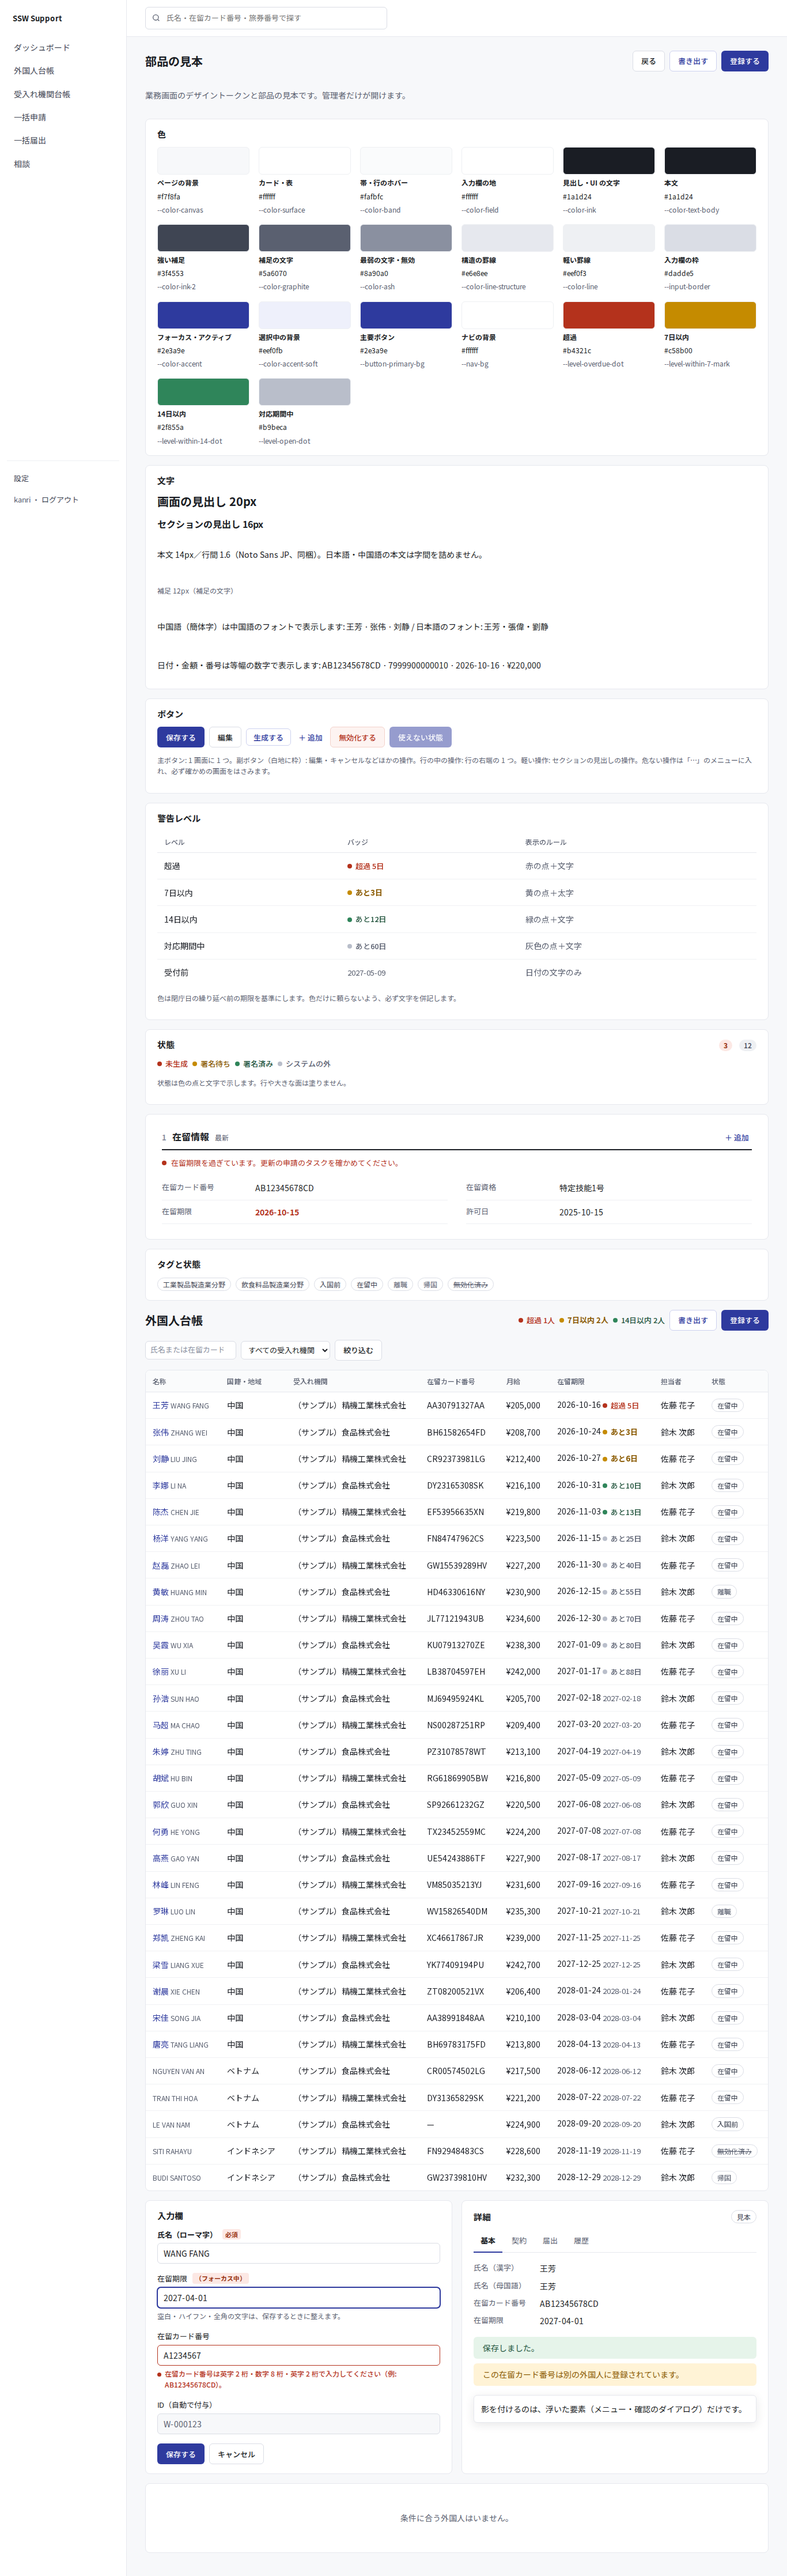
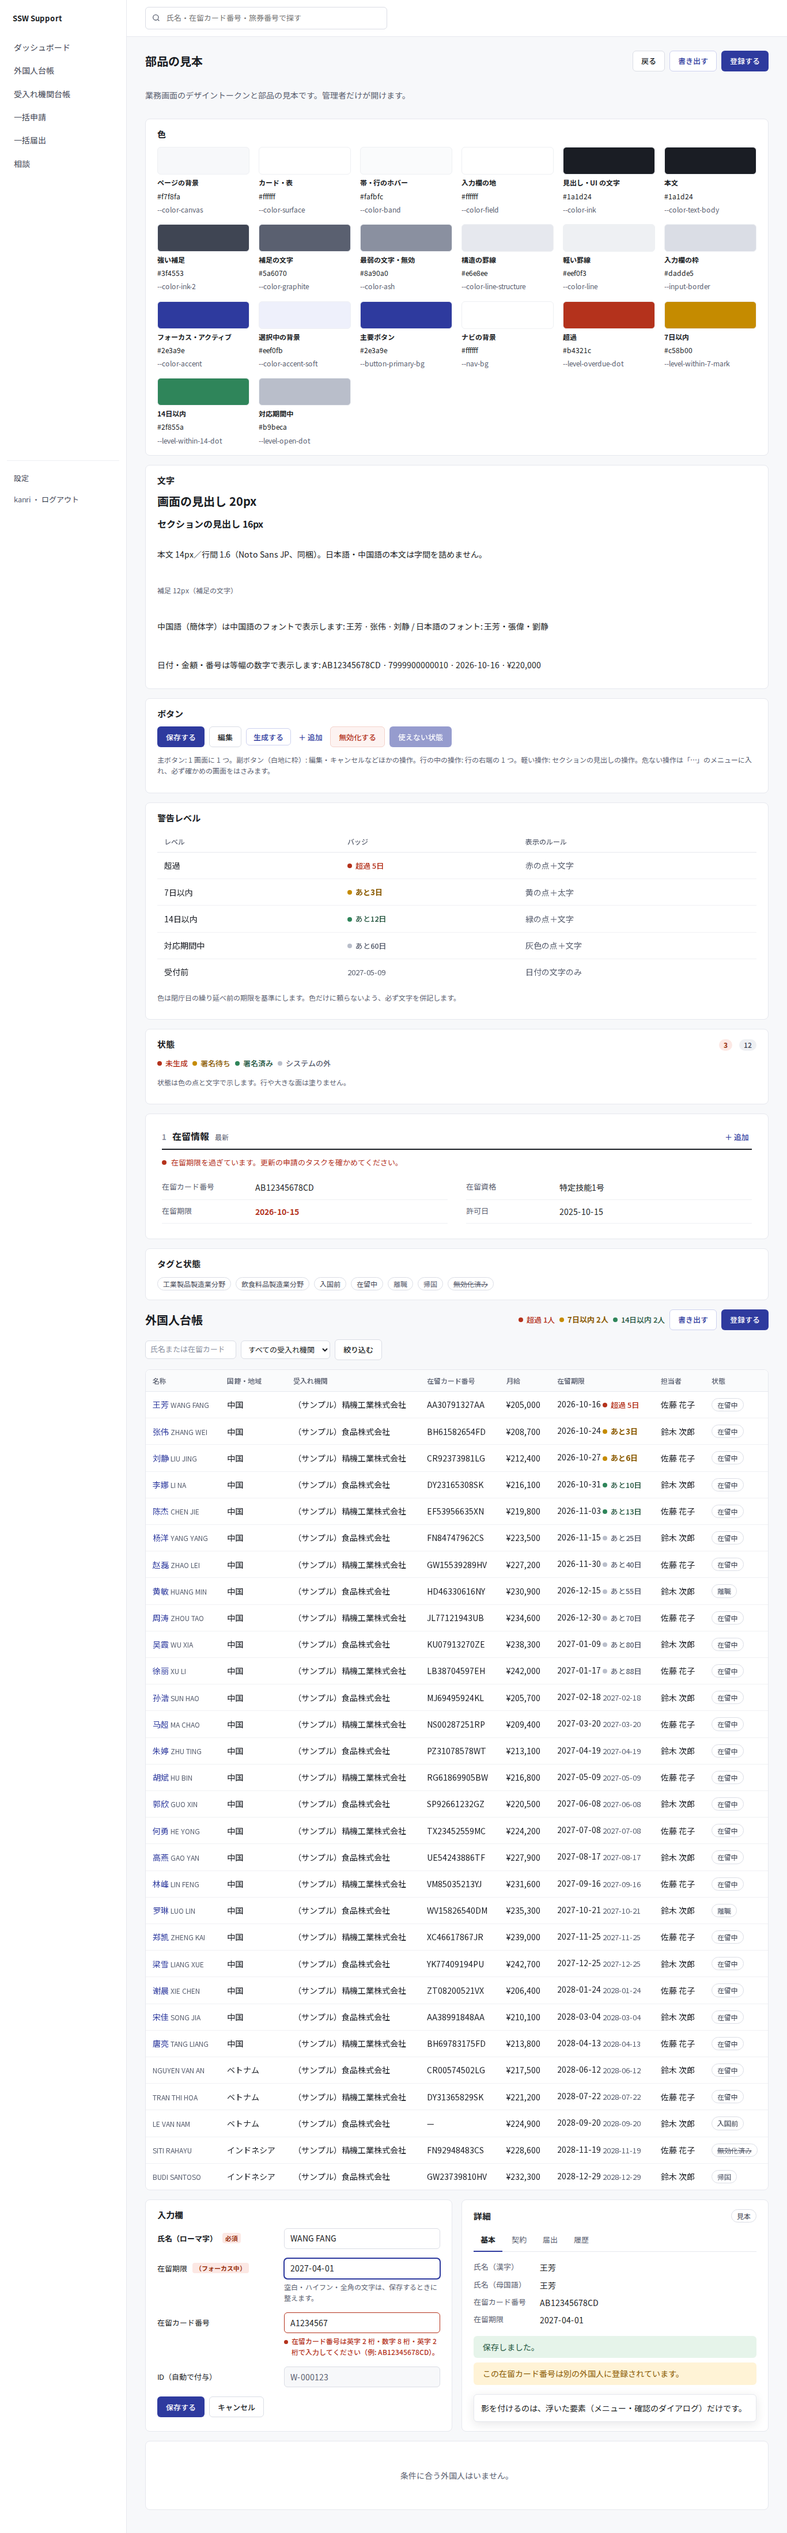
docs: 画面の見直し（U1〜U8）の決まりをデザインの README に、完了の記録をタスク表に書き、見本 07・08・受入れ機関の詳細・ほかの一覧の design-shots を撮る（U8）

diff --git a/docs/design/README.md b/docs/design/README.md
@@ -5,6 +5,18 @@
 - トークン: `backend/apps/core/static/ui/tokens.css`、字体: `backend/apps/core/static/ui/fonts.css`・`fonts/`
 - 見本画面: 管理者でログインして http://localhost:8000/ui/
 - スクリーンショット: [desktop.png](desktop.png)（1366px 幅）、[mobile.png](mobile.png)（390px 幅）。`make design-shots` で撮り直せる
+- 見本と同じ画面のスクリーンショット（seed_dummy のデータ。1366px と 390px）: `design-2026-10/shots/`
+  - 01 ダッシュボード・02 外国人台帳・03 外国人の詳細（概要）・04 同じ画面を目次で移った後・05 契約のタブ・06 支援のタブ・07 雇用契約の新しい版の入力・08 申請の書類の一覧
+  - 09 受入れ機関の詳細・10 同じ画面を目次で移った後・11 受入れ機関台帳・12 一括申請・13 一括届出・14 相談（390px は 1 件ずつのカード）
+
+### 2026-10 の見直しの決まり（ADR-0046。U1〜U8）
+
+- **骨組み**: 白いサイドバー（下に設定・利用者・ログアウト）と右の上の全体の検索。管理画面へのリンクは置かない。
+- **一覧**: 見出し・主ボタン・期限のタブ（件数の札）・1 行の絞り込み（選ぶとそのまま送る）・表。719px 以下は 1 件ずつのカード。
+- **詳細**（外国人・受入れ機関）: 上の帯（写真または頭文字の丸・名前・状態の札・期限の面・編集・「…」）、スクロールしたときの細い帯、今やること、番号つきのセクションと目次。719px 以下はタブと目次を 1 行の横送りに。
+- **中の画面**（一括申請・一括届出・届出タスク・生成した帳票・相談・設定）: 上の帯（名前と状態）と番号つきのセクション。目次はセクションが 4 つ以上のときだけ。
+- **入力の画面**: 項目名を左 200px、外国人に関わる画面は上に細い帯、下に留める帯（入力が足りない項目の数・注意の数・キャンセル・保存する）、欄を離れたときの必須の確かめ、番号つきのセクションと入力の目次（4 つ以上）。
+- **状態**: 色の点＋文字（danger・caution・ok・灰）。行を塗らない（申請の書類の一覧も）。
 
 以下は前の決定（2026-10-16。D: Officevibe の読み替え）の記録。2026-10 の見直しで置き換わった。
 

diff --git a/docs/tasks-phase4.md b/docs/tasks-phase4.md
@@ -151,6 +151,21 @@ T44〜T57 を 4 つのブロックで進める（T57 はブロック A の計画
 - **MVP 完成後に行うこと**（価値検証。人）: Windows の Excel でのマクロの確かめと入管システムへの取込、人の確認の一覧（`docs/handoff-mvp.md`）。
 - 段階4で見つけて直したもの: 一括申請を作る画面のボタンの文言（b57c974）、一括申請（変更）の希望する在留期間の選択肢（2cff922。gate4 で見つけた）。
 
+## 画面の見直し（U1〜U8。2026-10-21）
+
+業務画面の見た目と画面の型を、`docs/design/design-2026-10/`（仕様と見本 01〜08）に合わせて作り直した。決めたことは ADR-0046（U1〜U7 の追記）と ADR-0047（申請用の写真）、計画は `.checks/ui-redesign/plan.md`、決めた細部は `.checks/ui-redesign/decisions.md`、報告は `.checks/ui-redesign/report.md`。
+
+| タスク | 中身 | 状態 |
+|---|---|---|
+| U1 | トークン・同梱の字体（Noto Sans JP・SC のサブセット）・基本の部品 | 済み |
+| U2 | 画面の骨組み（サイドバー・全体の検索）と一覧の画面（タブ・1 行の絞り込み） | 済み |
+| U3 | 外国人の詳細（上の帯・細い帯・目次・概要）と、一覧の 390px のカード | 済み |
+| U4 | 申請用の写真（台帳の写真の履歴・切り抜き・6 か月の知らせ・JPEG） | 済み |
+| U5 | 契約・支援・届出・帳票・帳簿・履歴のタブ | 済み |
+| U6 | 入力の画面の型（項目名を左・上の細い帯・下に留める帯・欄を離れたときの確かめ・入力の目次） | 済み |
+| U7 | 申請の書類の一覧（見本 08）、受入れ機関の詳細、中の画面・設定・ログインの見た目 | 済み |
+| U8 | design-shots の撮り直し・デザインの README・`make checks` | 済み |
+
 ## 確かめられなかった点（計画の段階。findings.md の 4）
 
 - マクロを動かしての確認（値を書いたブックでマクロが動くか、A 列の再計算、Mac で動くか）→ MVP 完成後の価値検証で人が確かめる（D4）。
